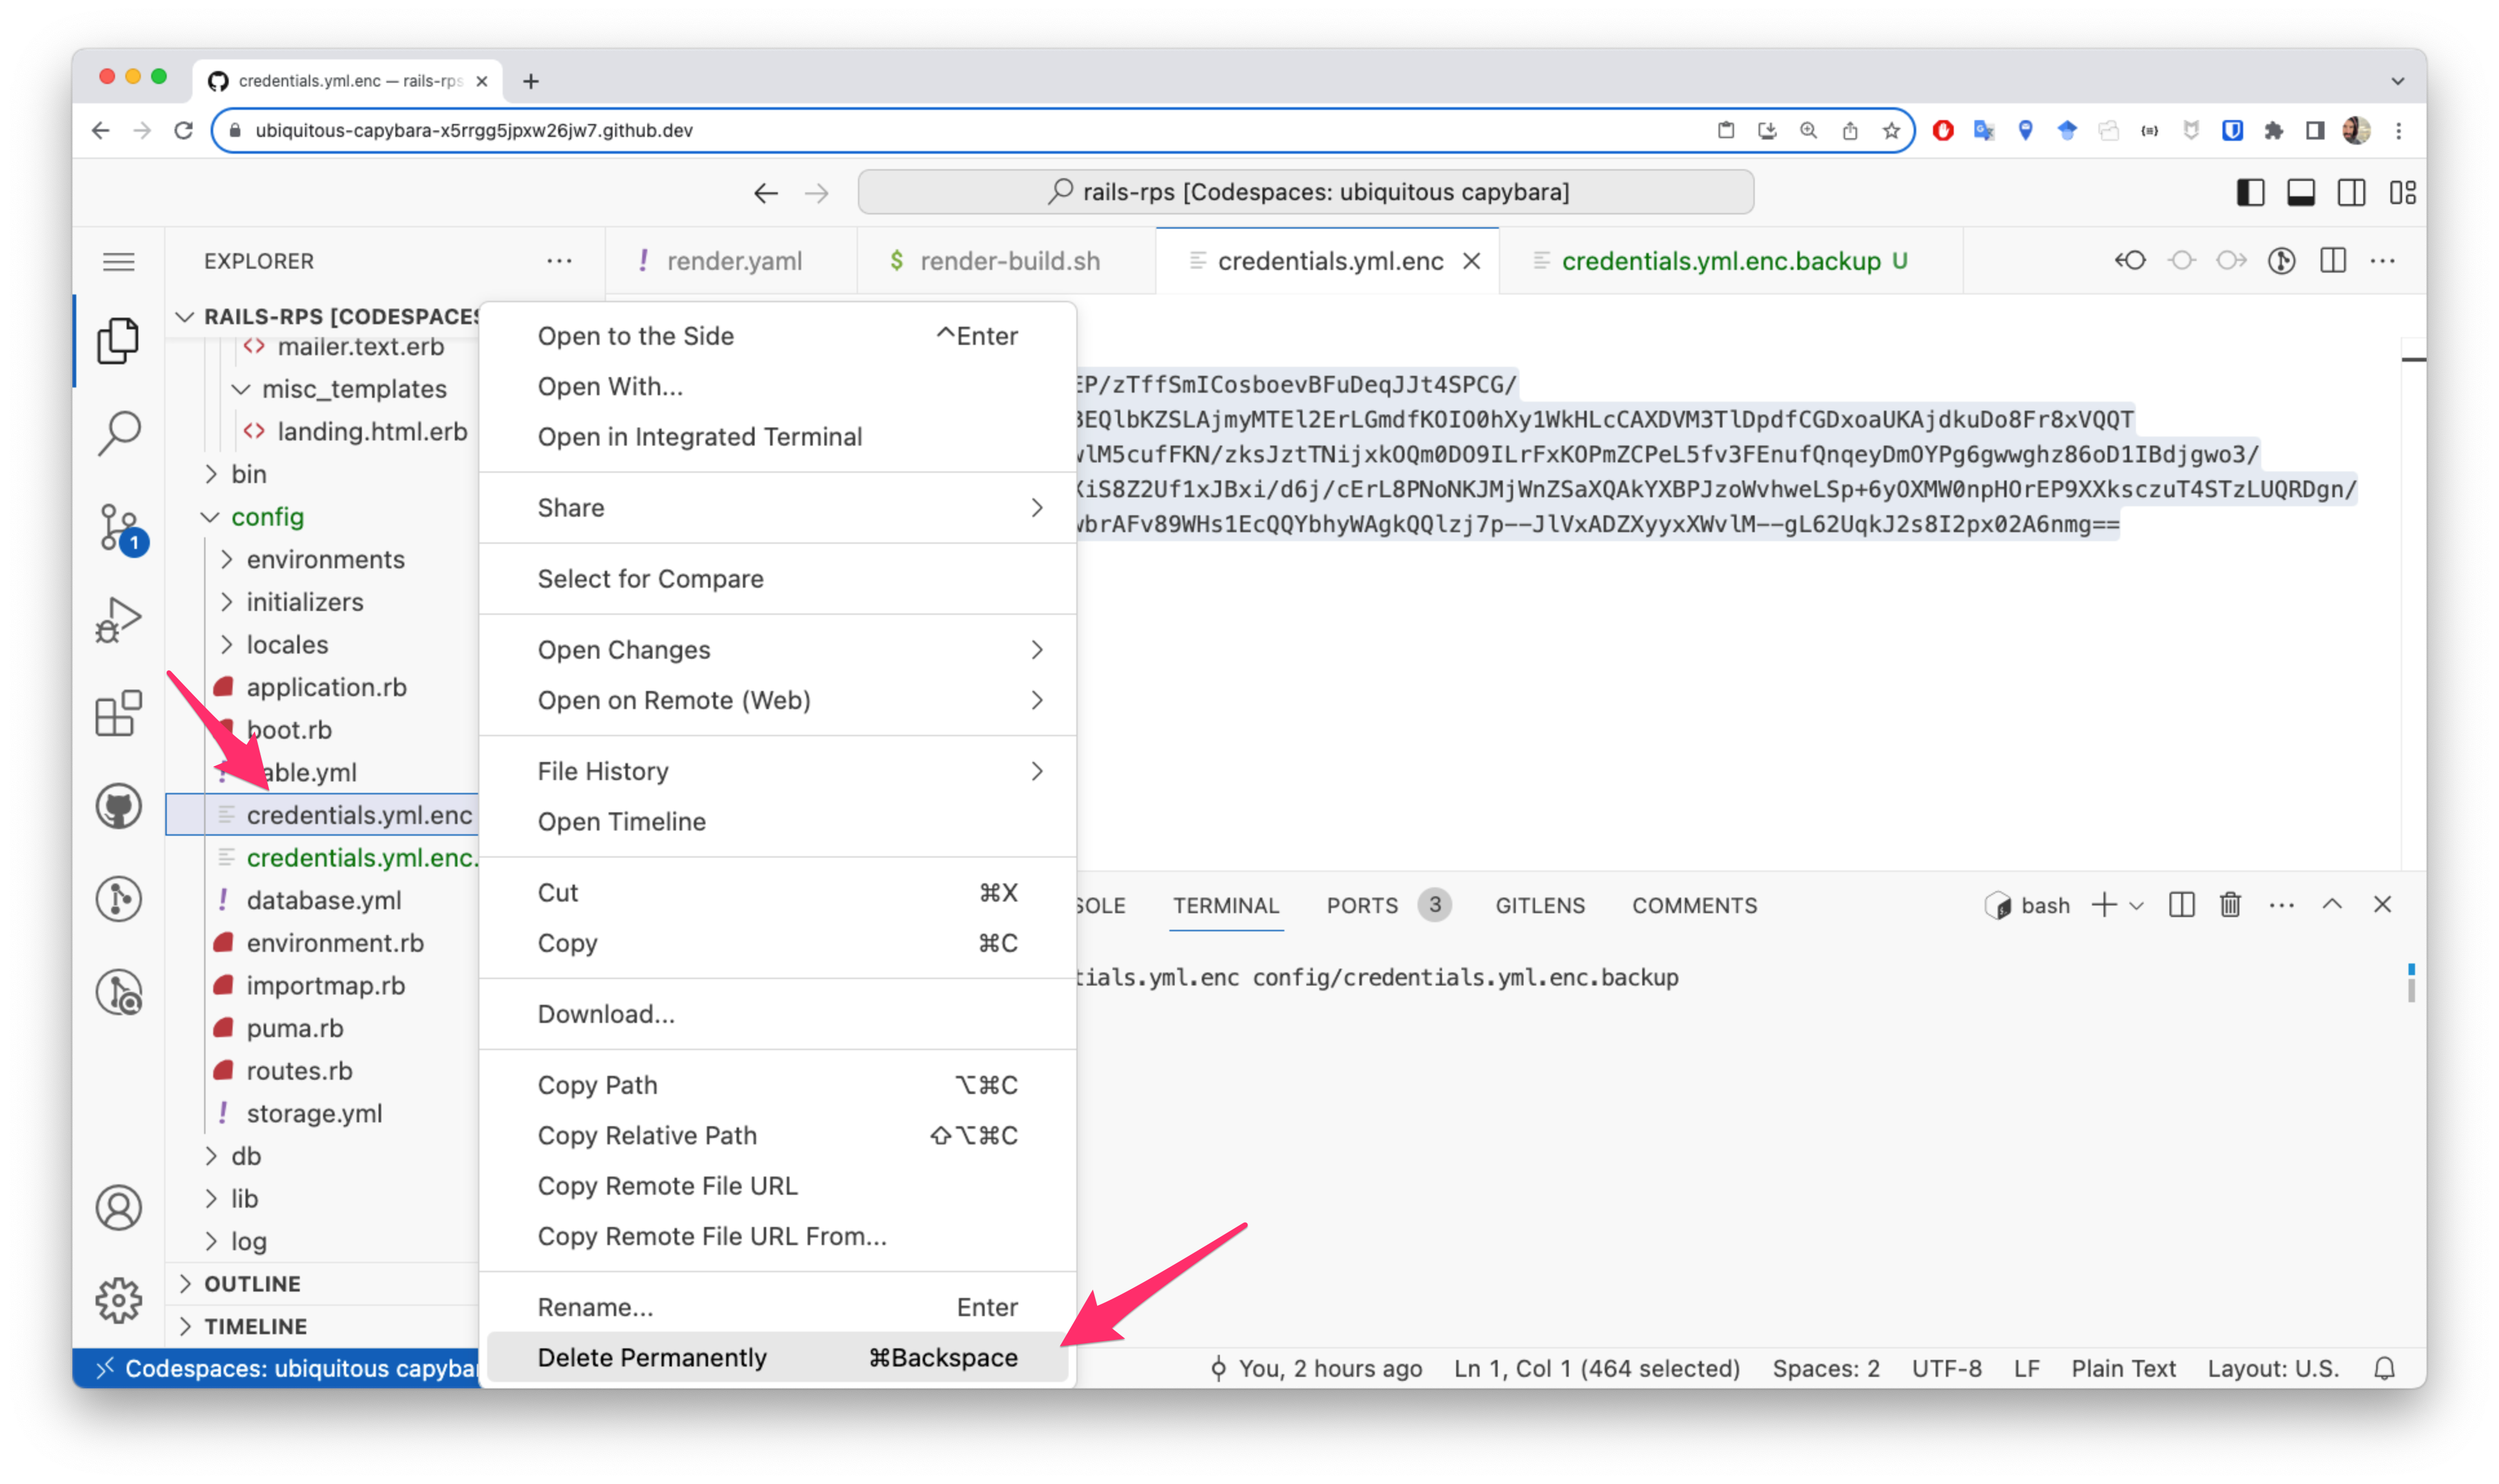
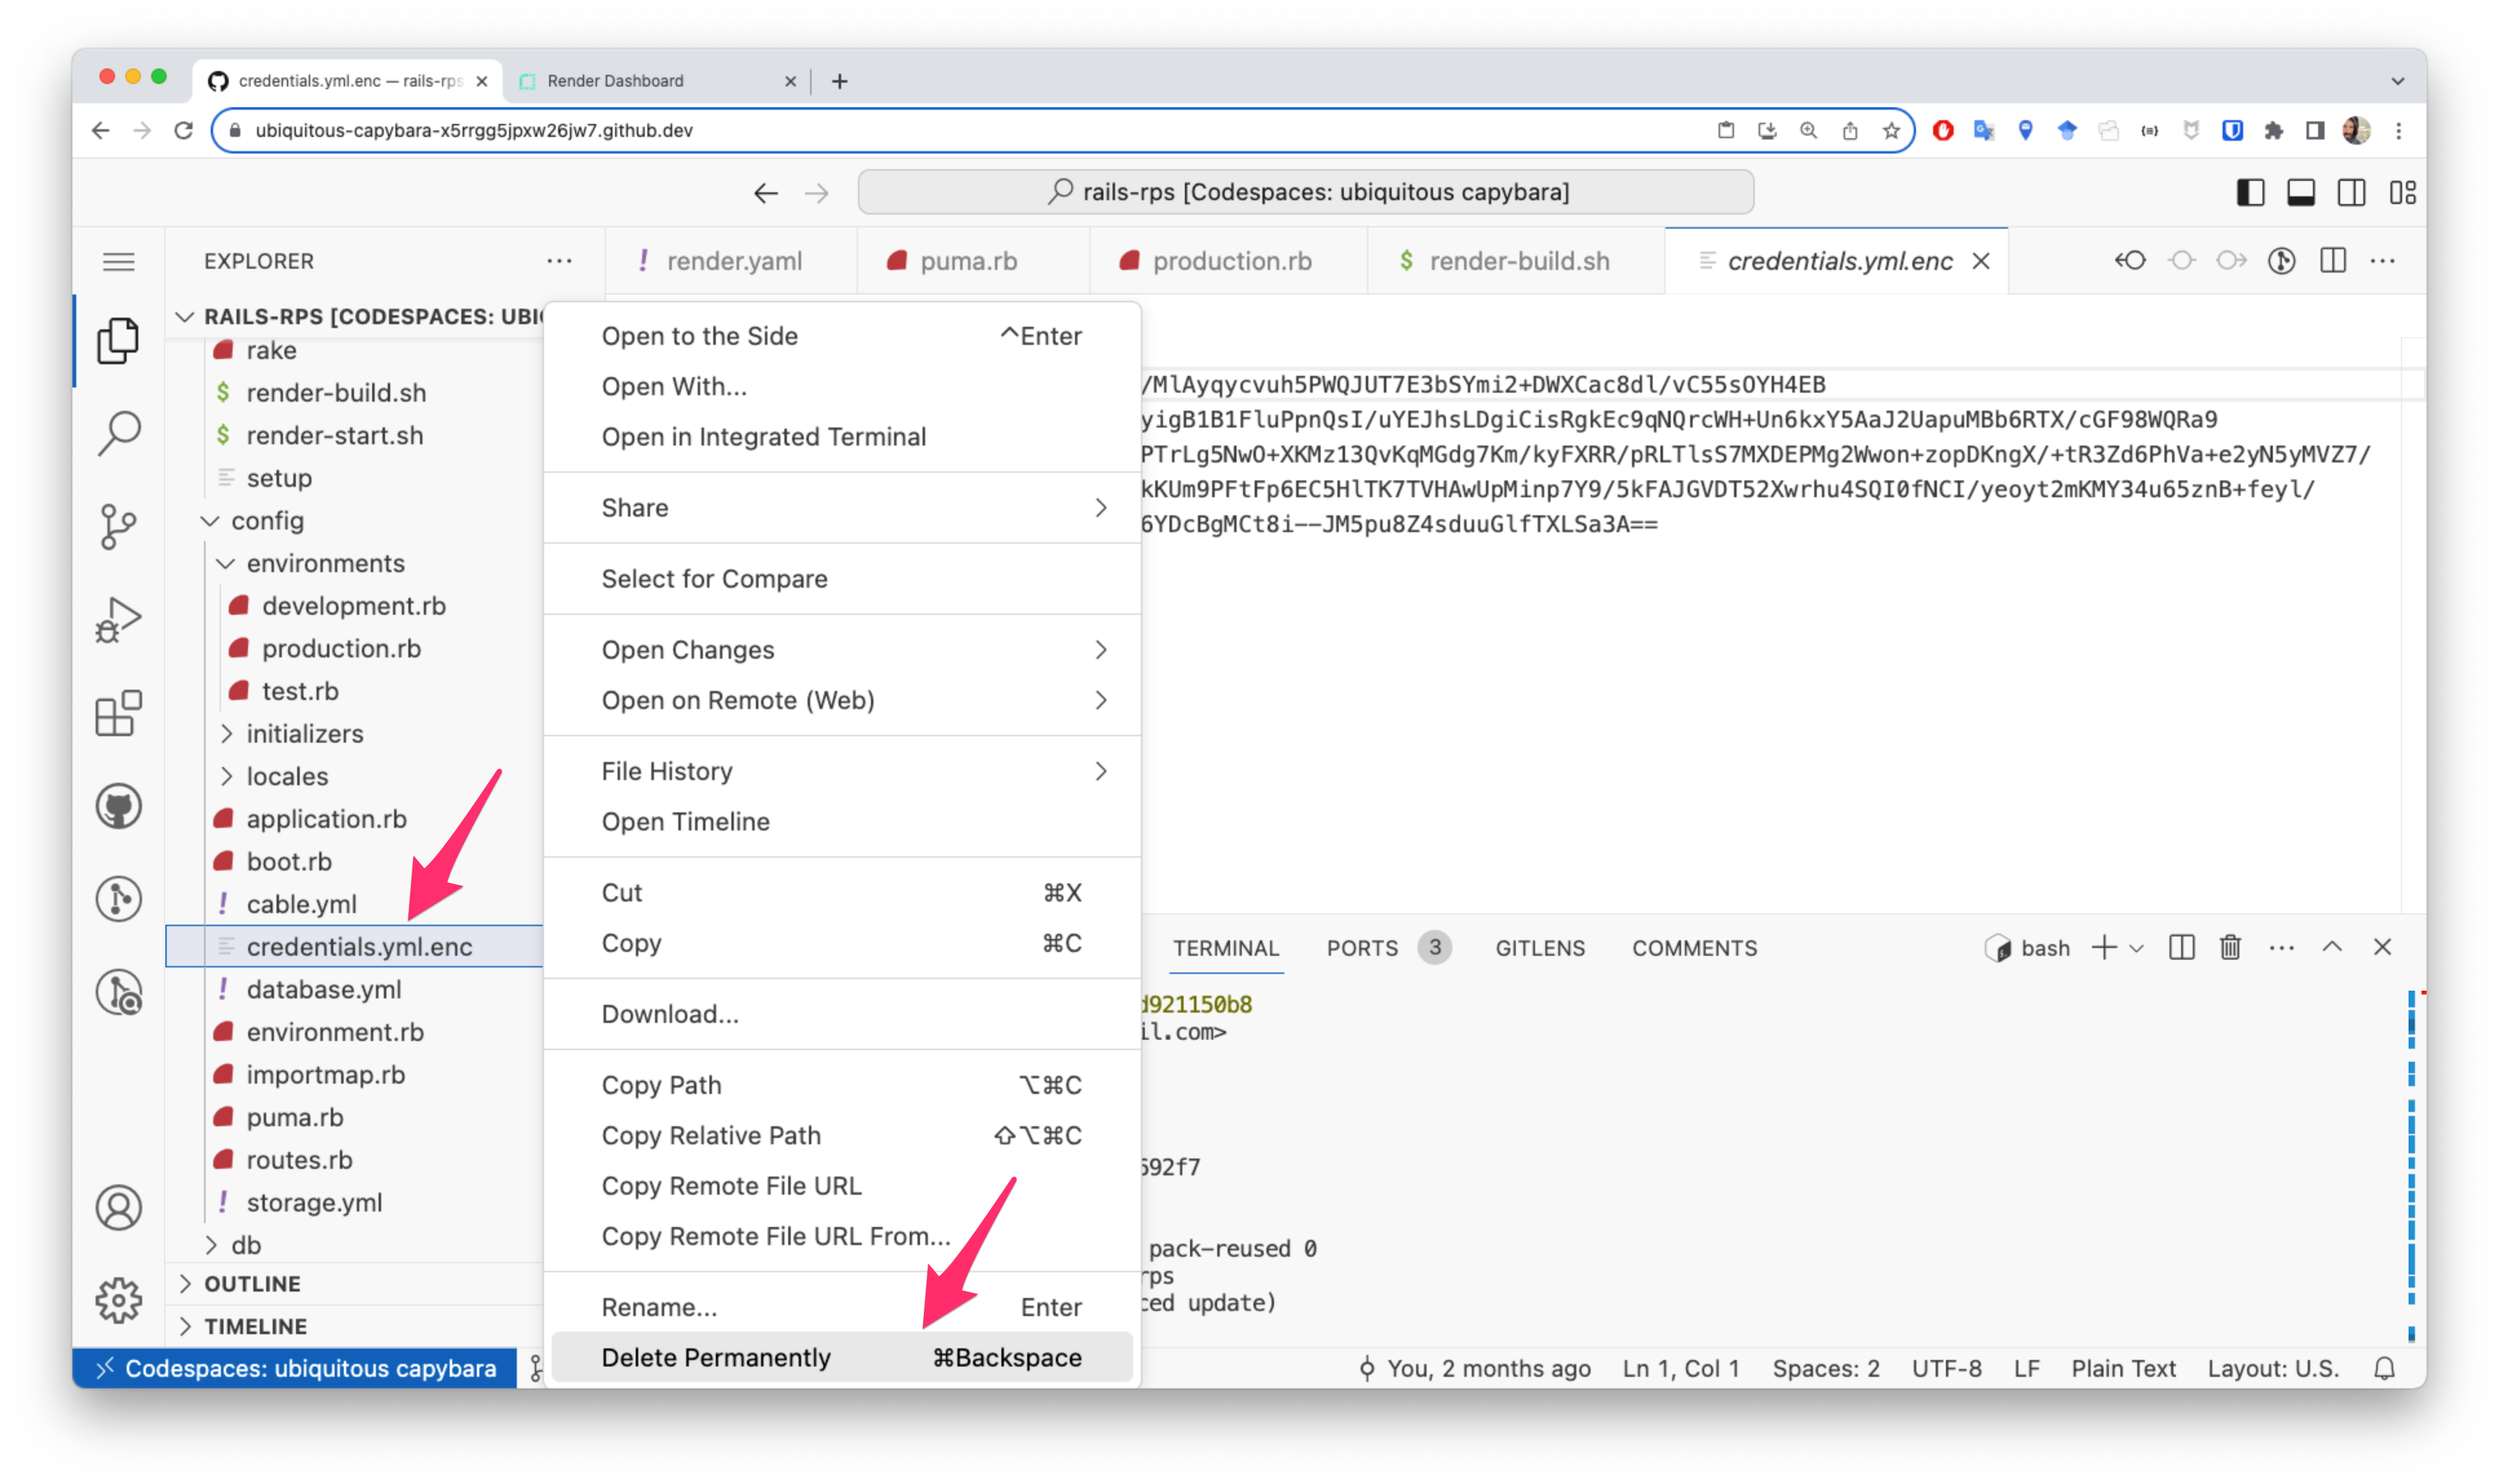
removed backup credentials step, works now

diff --git a/content.md b/content.md
@@ -42,18 +42,7 @@ When we create a new Rails app a file called `credentials.yml.enc` is added to t
 
 We haven't provided this key for your app, so you will need to follow these steps.
 
-First, run this command at your bash prompt to create a backup copy of the old `config/credentials.yml.enc` file:
-
-<aside markdown="1">
-
-`cp <file-name-1> <file-name-2>` is bash-speak for "copy file-1 to file-2"
-</aside>
-
-```
-% cp config/credentials.yml.enc config/credentials.yml.enc.backup
-```
-
-You will now see two files in your `config/` folder. Delete the original file (not the `.backup`):
+First, delete the `config/credentials.yml.enc` file, since we will generate a new one:
 
 ![](/assets/delete-original-credentials.png)
 {: .bleed-full }
@@ -64,12 +53,12 @@ Now, run this command at the bash prompt:
 % EDITOR="code --wait" rails credentials:edit
 ```
 
-That will open a temporary file in your editor window in a new tab. Copy and paste the entire contents of your backed up credentials from `config/credentials.yml.enc.backup` into this new file (overwriting anything that is already shown in the file). Then save the file, and close the editor tab with the name `XXXX.credentials.yml`:
+That will open a temporary file in your editor window in a new tab. This temporary file displays the `secret_key_base` that will be encrypted by the new `credentials.yml.enc` file. Once you've had a look at the file, you can simply close it in the editor tab (that file will be erased once you close it):
 
-![](/assets/replace-new-credentials.png)
+![](/assets/new-credentials.png)
 {: .bleed-full }
 
-You should now also delete the the `config/credentials.yml.enc.backup`, such that your `config/` folder looks something like this:
+After you close that temporary file, your `config/` folder looks something like this:
 
 ---
 
@@ -84,7 +73,9 @@ Note the two files I've highlighted that were created by this process:
 
 <div class="bg-red-100 py-1 px-5" markdown="1">
 
-The `master.key` file has a light gray, muted color. That's because it is included in our `.gitignore` file. We never want to publish this key to GitHub, and we won't make that mistake by `.gitignore`-ing the file! That `master.key` will be stored safely in our codespace, but you may also want to copy it to another secure location in case your codespace is eventually deleted due to inactivity.
+The `master.key` file has a light gray, muted color. That's because it is included in our `.gitignore` file. We never want to publish this key to GitHub, and we won't make that mistake since we are `.gitignore`-ing the file! 
+
+That `master.key` will be stored safely in our codespace, but you should also copy it to another secure location in case your codespace is eventually deleted due to inactivity. Now could be a great time to start using a password manager like [Bitwarden](https://bitwarden.com/) to safely store information like this. (Bitwarden and other password managers aren't limited to passwords; you can store other sensitive information like API keys there.)
 </div>
 
 Now you can run a git commit and push to save the new `credentials.yml.enc` file. (This one is encrypted, so we can store it on GitHub.)
@@ -104,7 +95,9 @@ Visit [dashboard.render.com](https://dashboard.render.com/) and open the app you
 
 This will trigger another deployment of your app (visit the "Events" tab to view the progress). When the deployment finishes, your app will be live!
 
-Looking to deploy an app that has a database? Read the next section for the additional steps to take there!
+---
+
+Are you looking to deploy an app that has a database? Read the next section for the additional steps to take there!
 
 ## Deploying a database-backed Rails app
 
